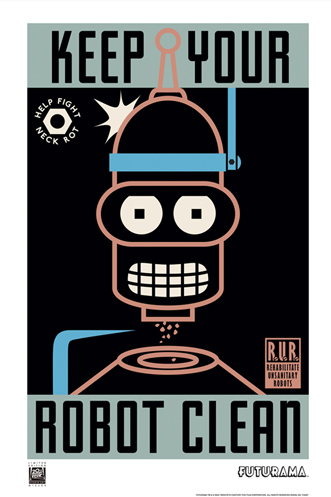
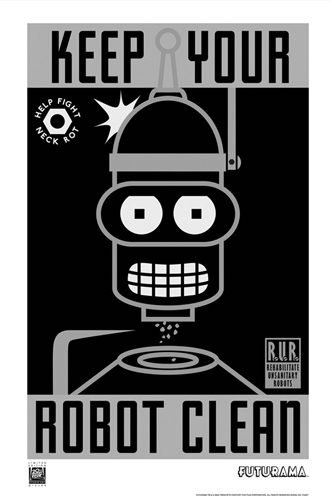
add bundle

diff --git a/README.md b/README.md
@@ -164,8 +164,9 @@ or
 
 ```
 
-#Other Notes:
+#Hot to Keep Your Robot Clean - Link to a few diagram:
 
+![alt text](https://raw.githubusercontent.com/mallond/robovacations/master/images/cleanrobot.jpg "keep you robot clean")
 
 (React-Redux robovacations road map) [https://github.com/mallond/robovacations/blob/master/react-redux.md]
 
